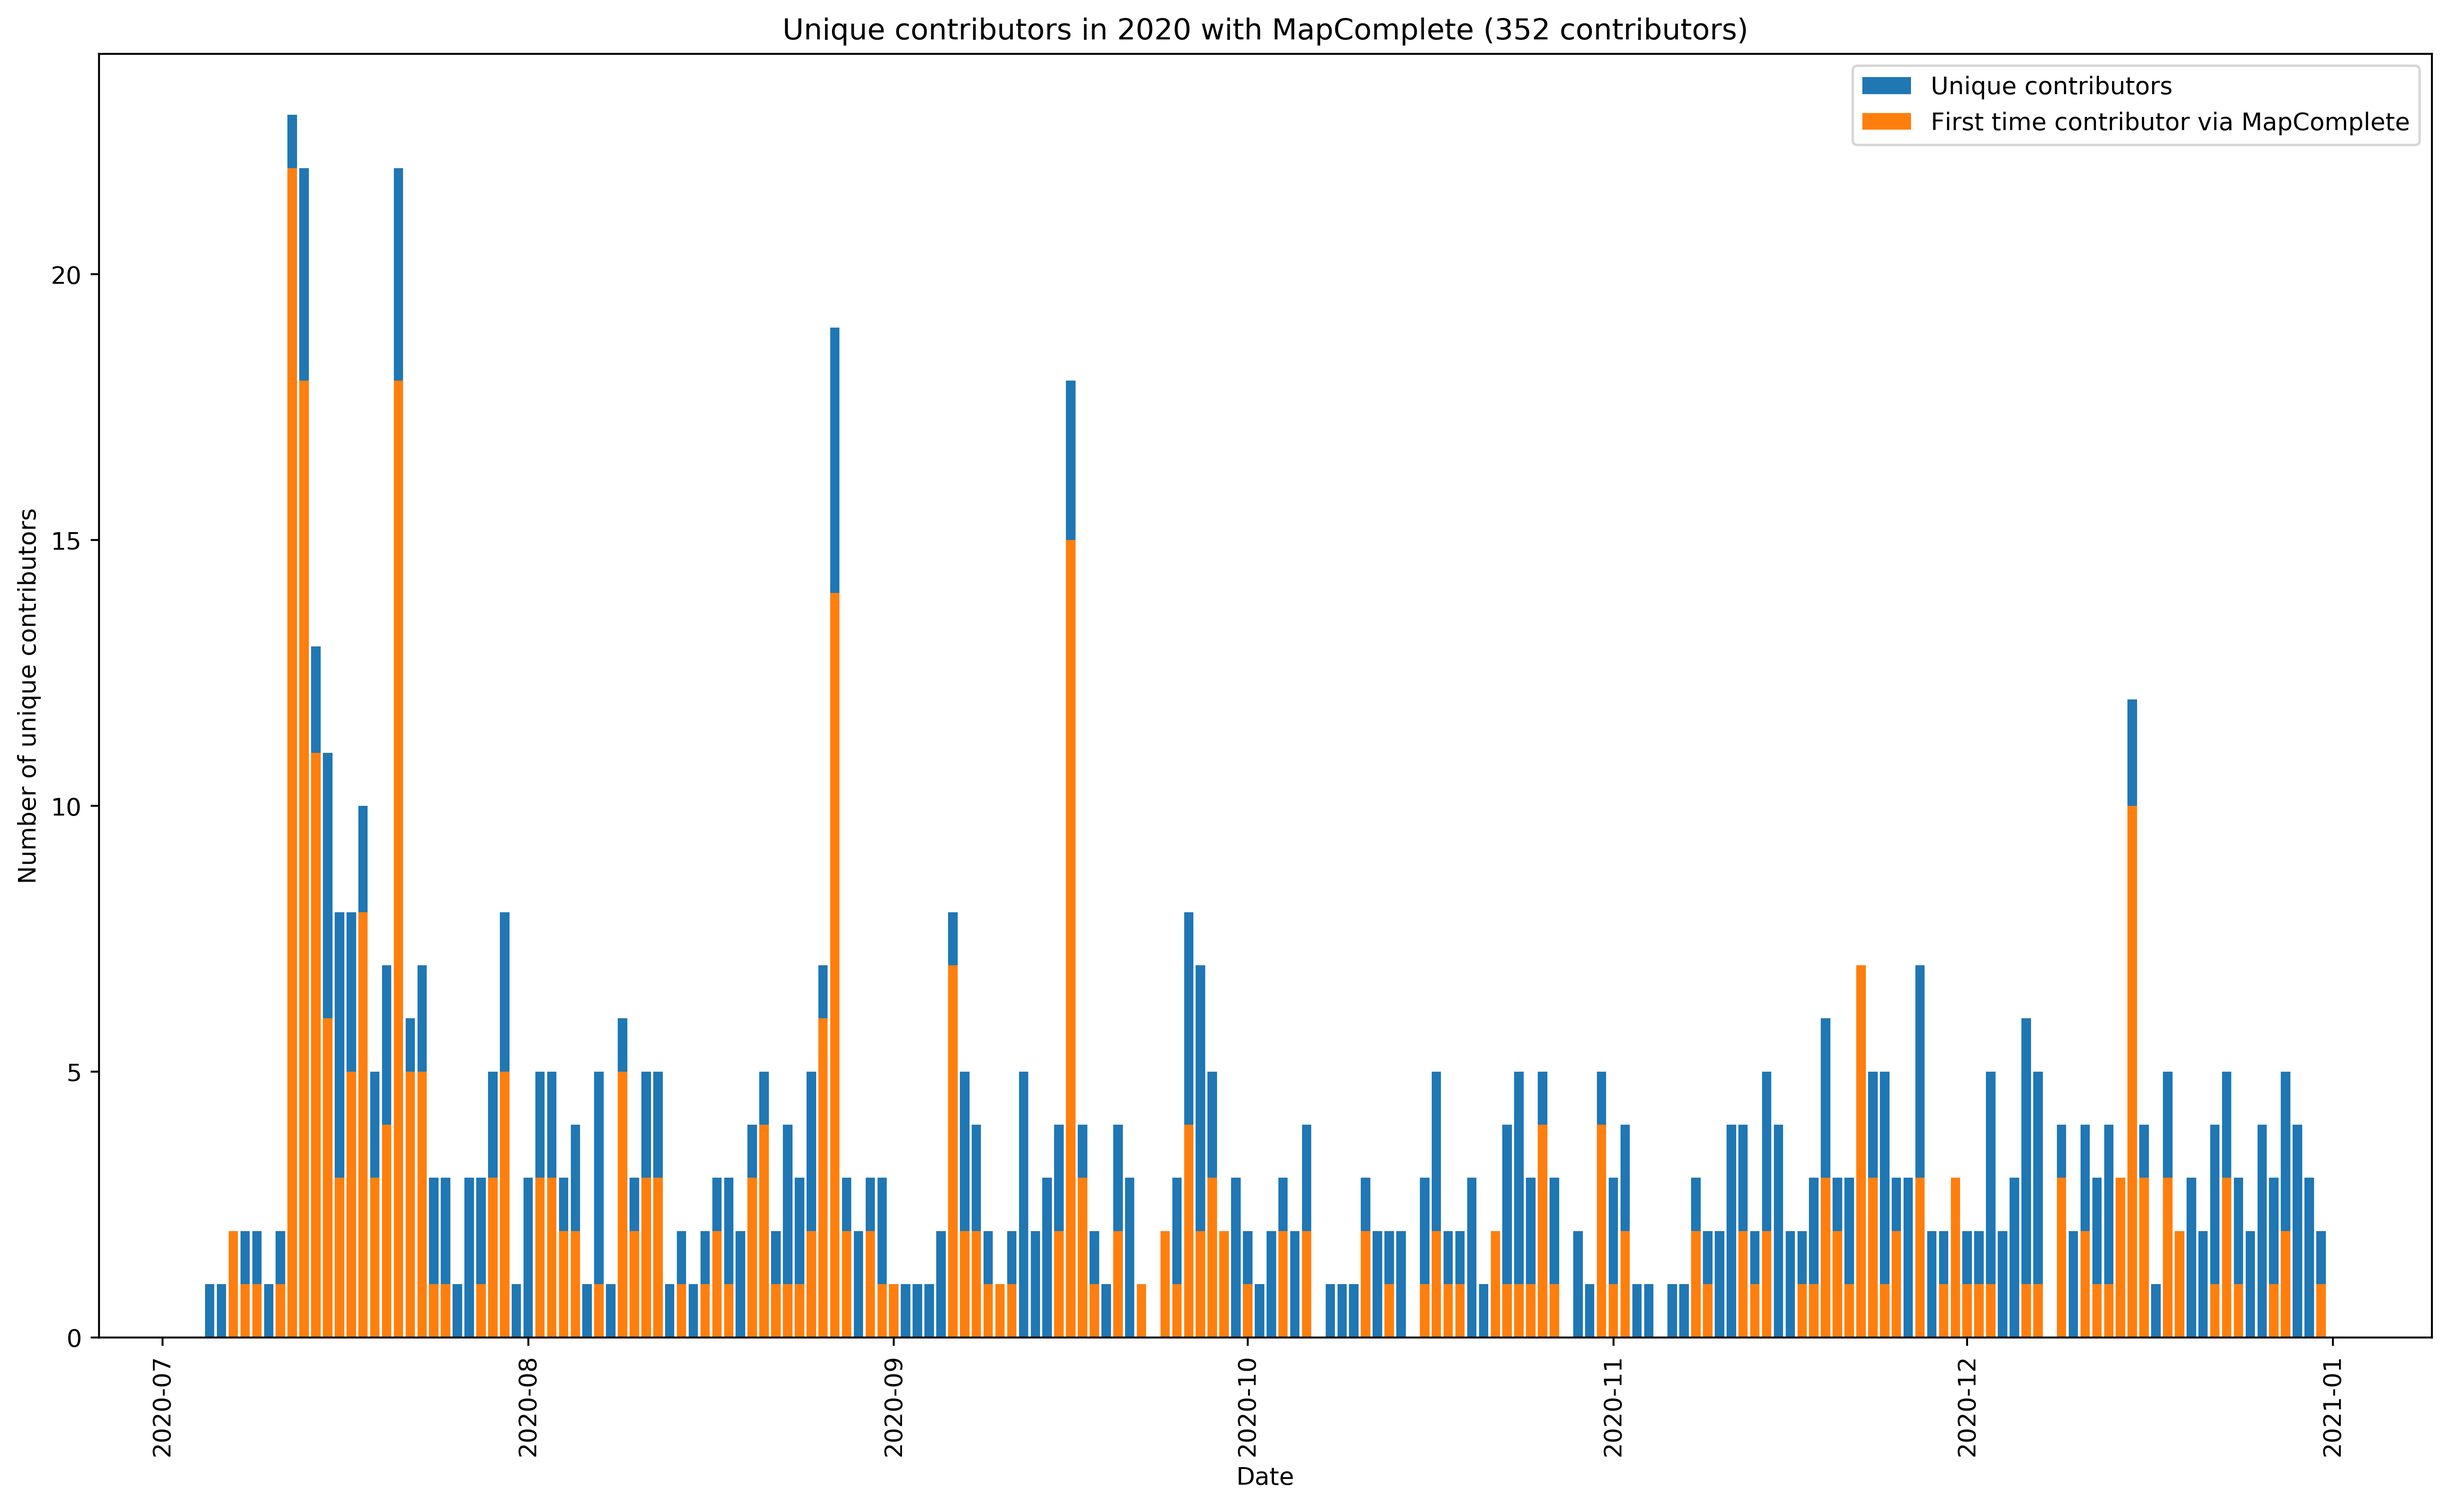
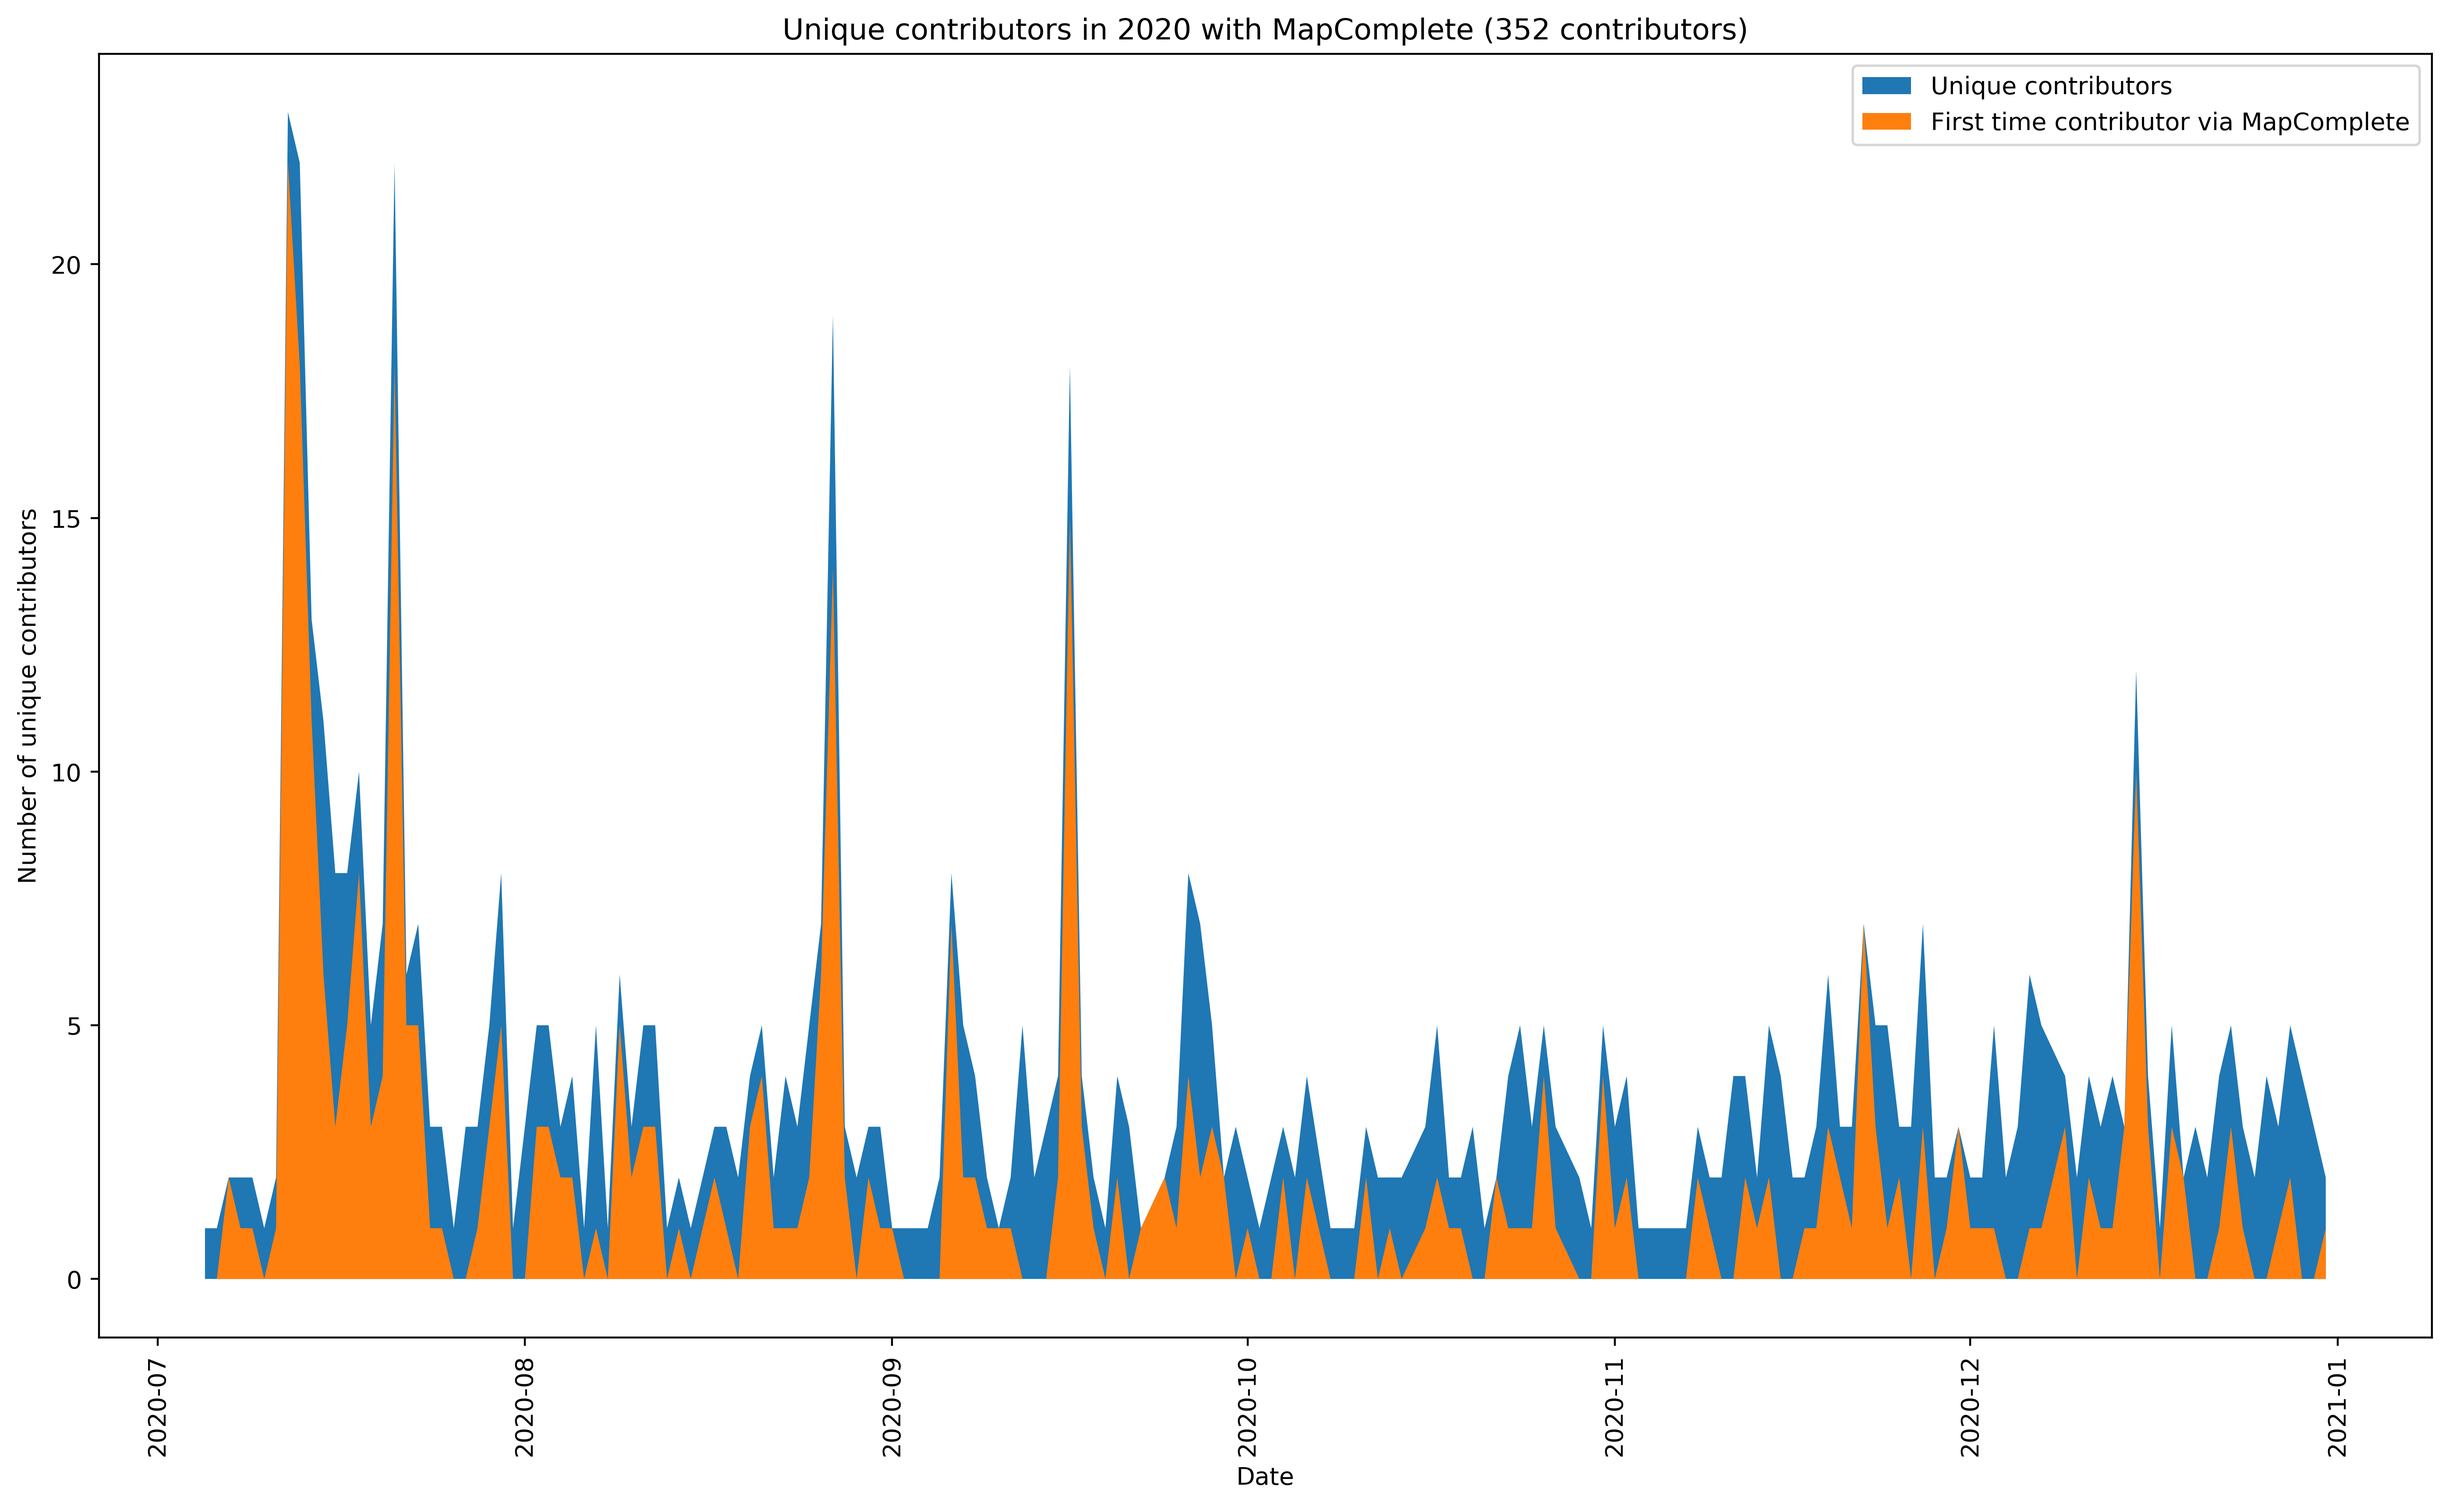
New graphs; disable optimazation

diff --git a/UI/SubstitutedTranslation.ts b/UI/SubstitutedTranslation.ts
@@ -6,9 +6,11 @@ import Combine from "./Base/Combine";
 import State from "../State";
 import {FixedUiElement} from "./Base/FixedUiElement";
 import SpecialVisualizations from "./SpecialVisualizations";
+import {Utils} from "../Utils";
 
 export class SubstitutedTranslation extends UIElement {
-    private static cachedTranslations: Map<Translation, Map<UIEventSource<any>, SubstitutedTranslation>> = new Map<Translation, Map<UIEventSource<any>, SubstitutedTranslation>>();
+    private static cachedTranslations: 
+        Map<string, Map<Translation, Map<UIEventSource<any>, SubstitutedTranslation>>> = new Map<string, Map<Translation, Map<UIEventSource<any>, SubstitutedTranslation>>>();
     private readonly tags: UIEventSource<any>;
     private readonly translation: Translation;
     private content: UIElement[];
@@ -32,20 +34,26 @@ export class SubstitutedTranslation extends UIElement {
         this.SetClass("w-full")
     }
 
+    private static GenerateMap(){
+        return new Map<UIEventSource<any>, SubstitutedTranslation>()
+    }
+    private static GenerateSubCache(){
+        return new  Map<Translation, Map<UIEventSource<any>, SubstitutedTranslation>>();
+    }
+    
     public static construct(
         translation: Translation,
         tags: UIEventSource<any>): SubstitutedTranslation {
-        if (!this.cachedTranslations.has(translation)) {
-            this.cachedTranslations.set(translation, new Map<UIEventSource<any>, SubstitutedTranslation>());
-        }
-        const innerMap = this.cachedTranslations.get(translation);
+        
+       /* let cachedTranslations = Utils.getOrSetDefault(SubstitutedTranslation.cachedTranslations, SubstitutedTranslation.GenerateSubCache);
+        const innerMap = Utils.getOrSetDefault(cachedTranslations, translation, SubstitutedTranslation.GenerateMap);
 
         const cachedTranslation = innerMap.get(tags);
         if (cachedTranslation !== undefined) {
             return cachedTranslation;
-        }
+        }*/
         const st = new SubstitutedTranslation(translation, tags);
-        innerMap.set(tags, st);
+       // innerMap.set(tags, st);
         return st;
     }
 

diff --git a/UI/Base/ScrollableFullScreen.ts b/UI/Base/ScrollableFullScreen.ts
@@ -14,12 +14,13 @@ export default class ScrollableFullScreen extends UIElement {
     private _component: UIElement;
     private _fullscreencomponent: UIElement;
 
-    constructor(title: (() => UIElement), content: (() => UIElement), isShown: UIEventSource<boolean> = new UIEventSource<boolean>(false)) {
+    constructor(title: ((mode: string) => UIElement), content: ((mode: string) => UIElement), 
+                isShown: UIEventSource<boolean> = new UIEventSource<boolean>(false)) {
         super();
         this.isShown = isShown;
 
-        this._component = this.BuildComponent(title(), content(), isShown);
-        this._fullscreencomponent = this.BuildComponent(title(), content(), isShown);
+        this._component = this.BuildComponent(title("desktop"), content("desktop"), isShown);
+        this._fullscreencomponent = this.BuildComponent(title("mobile"), content("mobile"), isShown);
         this.dumbMode = false;
         const self = this;
         isShown.addCallback(isShown => {

diff --git a/UI/Popup/FeatureInfoBox.ts b/UI/Popup/FeatureInfoBox.ts
@@ -17,7 +17,9 @@ export default class FeatureInfoBox extends ScrollableFullScreen {
         tags: UIEventSource<any>,
         layerConfig: LayerConfig
     ) {
-        super(() => FeatureInfoBox.GenerateTitleBar(tags, layerConfig),() => FeatureInfoBox.GenerateContent(tags, layerConfig));
+        super((mode:string) => FeatureInfoBox.GenerateTitleBar(tags, layerConfig, mode),
+            (mode:string) => FeatureInfoBox.GenerateContent(tags, layerConfig, mode));
+       
         if (layerConfig === undefined) {
             throw "Undefined layerconfig";
         }
@@ -46,7 +48,8 @@ export default class FeatureInfoBox extends ScrollableFullScreen {
     }
 
     private static GenerateContent(tags: UIEventSource<any>,
-                                   layerConfig: LayerConfig): UIElement {
+                                   layerConfig: LayerConfig,
+                                   mode: string): UIElement {
 
 
         let questionBox: UIElement = undefined;

diff --git a/Customizations/JSON/TagRenderingConfig.ts b/Customizations/JSON/TagRenderingConfig.ts
@@ -74,7 +74,7 @@ export default class TagRenderingConfig {
             }
             if(this.freeform.addExtraTags){
                 const usedKeys = new And(this.freeform.addExtraTags).usedKeys();
-                if(usedKeys.indexOf(this.freeform.key)){
+                if(usedKeys.indexOf(this.freeform.key) >= 0){
                     throw `The freeform key ${this.freeform.key} will be overwritten by one of the extra tags, as they use the same key too. This is in ${context}`;
                 }
             }

diff --git a/UI/Popup/TagRenderingQuestion.ts b/UI/Popup/TagRenderingQuestion.ts
@@ -38,7 +38,8 @@ export default class TagRenderingQuestion extends UIElement {
     constructor(tags: UIEventSource<any>,
                 configuration: TagRenderingConfig,
                 afterSave?: () => void,
-                cancelButton?: UIElement) {
+                cancelButton?: UIElement        
+    ) {
         super(tags);
         this._tags = tags;
         this._configuration = configuration;

diff --git a/State.ts b/State.ts
@@ -76,7 +76,7 @@ export default class State {
     /**
      The latest element that was selected
      */
-    public readonly selectedElement = new UIEventSource<any>(undefined)
+    public readonly selectedElement = new UIEventSource<any>(undefined, "Selected element")
 
 
     public readonly featureSwitchUserbadge: UIEventSource<boolean>;

diff --git a/Models/Constants.ts b/Models/Constants.ts
@@ -2,7 +2,7 @@ import { Utils } from "../Utils";
 
 export default class Constants {
     
-    public static vNumber = "0.5.6";
+    public static vNumber = "0.5.7";
 
     // The user journey states thresholds when a new feature gets unlocked
     public static userJourney = {

diff --git a/Docs/Tools/csvGrapher.py b/Docs/Tools/csvGrapher.py
@@ -111,14 +111,15 @@ def pyplot_init():
 
 
 def create_usercount_graphs(stats, year="", show=False):
+    print("Creating usercount graphs "+year)
     dates, cumul_uniq, unique_per_day, new_users = cumulative_users(stats, year)
     total = cumul_uniq[-1]
 
     if year != "":
         year = " in " + year
     pyplot_init()
-    pyplot.bar(dates, unique_per_day, label='Unique contributors')
-    pyplot.bar(dates, new_users, label='First time contributor via MapComplete')
+    pyplot.fill_between(dates, unique_per_day, label='Unique contributors')
+    pyplot.fill_between(dates, new_users, label='First time contributor via MapComplete')
     pyplot.legend()
     pyplot.title("Unique contributors" + year + ' with MapComplete (' + str(total) + ' contributors)')
     pyplot.ylabel("Number of unique contributors")
@@ -161,6 +162,7 @@ theme_remappings = {
 
 
 def create_theme_breakdown(stats, year="", user=None, columnIndex=3):
+    print("Creating theme breakdown "+year)
     themeCounts = {}
     for row in stats:
         if not row[0].startswith(year):
@@ -212,8 +214,13 @@ def gen_theme_breakdown_graphs(contents, user=None):
     for year in range(2020, currentYear + 1):
         create_theme_breakdown(contents, str(year), user)
 
+def changes_per_theme_daily(contents):
+    hist = {}
+    for row in contents:
+        
+        
 def main():
-    print("Creating logs...")
+    print("Creating graphs...")
     with open('stats.csv', newline='') as csvfile:
         stats = list(csv.reader(csvfile, delimiter=',', quotechar='"'))
         print("Found "+str(len(stats))+" changesets")
@@ -222,4 +229,6 @@ def main():
     print("All done!")
 
 
+# pyplot.fill_between(range(0,5),  [1,2,3,3,2],)
+# pyplot.show()
 main()
